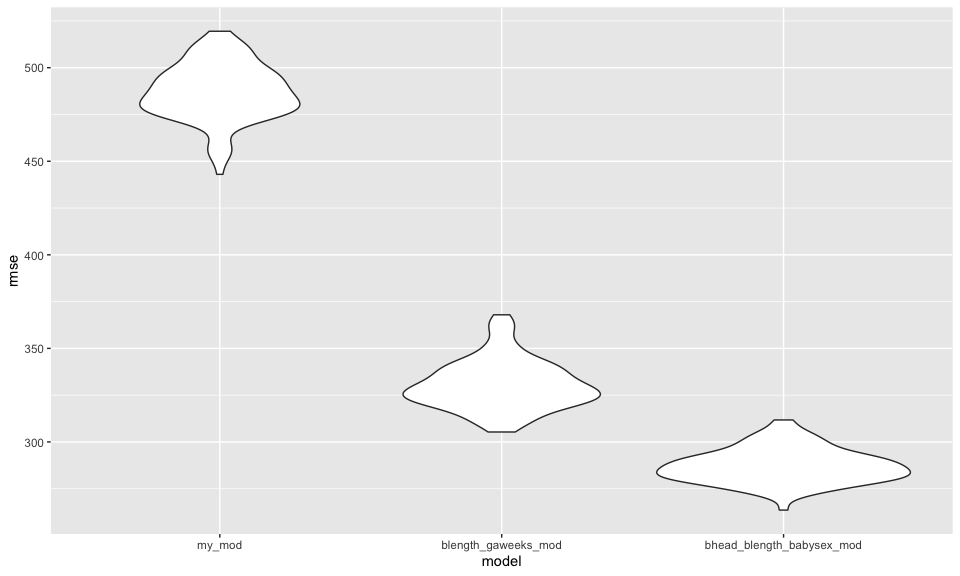
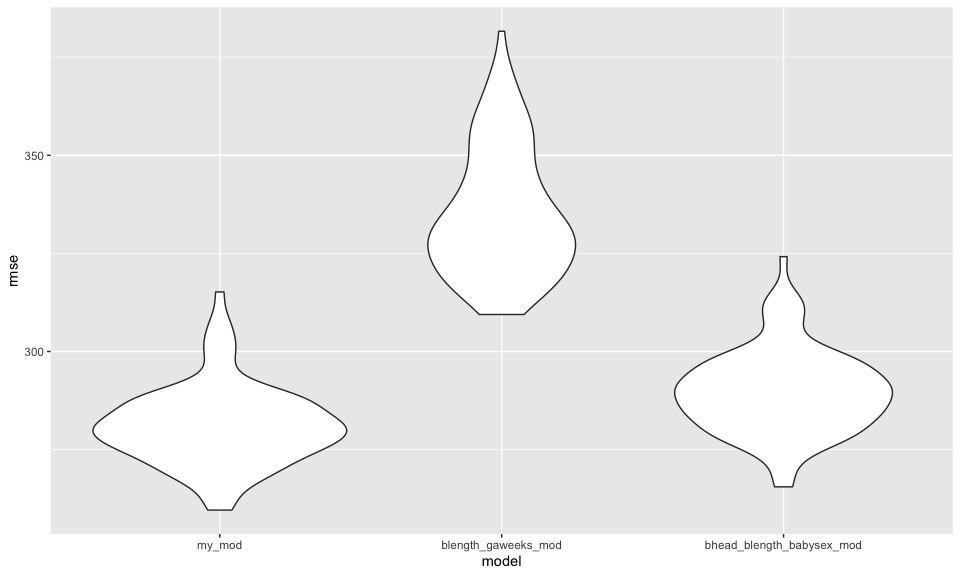
3. almost done.  next identify outliers and do last comparison.

diff --git a/p8105_hw6_td2749.md b/p8105_hw6_td2749.md
@@ -8,6 +8,7 @@ library(tidyverse)
 library(ggplot2)
 library(modelr)
 library(mgcv)
+library(patchwork)
 
 knitr::opts_chunk$set(
   fig.width = 10,
@@ -127,17 +128,7 @@ hom_all_glm =
          ci_lower = exp(`2.5 %`),
          ci_upper = exp(`97.5 %`)) %>% 
   select(city_state, term, OR, ci_lower, ci_upper)
-```
 
-    ## Warning: glm.fit: fitted probabilities numerically 0 or 1 occurred
-
-    ## Warning: glm.fit: fitted probabilities numerically 0 or 1 occurred
-
-    ## Warning: glm.fit: fitted probabilities numerically 0 or 1 occurred
-
-    ## Warning: glm.fit: fitted probabilities numerically 0 or 1 occurred
-
-``` r
 head(hom_all_glm)
 ```
 
@@ -172,9 +163,23 @@ male_female_odds_plot
 <img src="p8105_hw6_td2749_files/figure-gfm/all cities plot-1.png" width="90%" />
 
 **Comment**: Based on the fit model, compared to female homicide victim
-cases, male homicide victim cases are less likely to be solved in New
-York, NY. More likely in Albuqurque, NM. (ASK ABOUT LIKELIHOOD OF THE
-VICTIM BEING MALE/FEMALE IN THE FIRST PLACE).
+cases, amongst major US cities, male homicide victim cases have much
+fewer odds to be solved in New York, NY and considerably higher odds in
+Albuquerque, NM. In Atlanta, GA and Richmond, VA, male and female
+homicide victim cases are equally likely to be solved (equal odds \~1).
+In most of the major US cities included in this analysis, cases with
+male homicide victims are comparatively (in reference to cases with
+female homicide victims) less likely to be solved. Only in 4 cities here
+(Nashville TN, Fresno CA, Stockton CA, Albuquerque NM) here, cases with
+male homicide victims have higher odds of being solved.
+
+Note: In this context, it is important to consider that odds ratios are
+a relative and not an absolute measure of pointing out the differences.
+For instance, hypothetically, if it is the case that Albuquerque has
+very few female homicide victims and a low solving rate for female
+victims, the overall odds ratio would tend to be over-inflated, thereby
+casting doubt upon the validity of relative measures with extreme
+underlying contexts.
 
 # Problem 3
 
@@ -199,63 +204,109 @@ birthweight_data =
 
 - There are no missing values in this dataset (0).
 
-??? Describe your modeling process ???
+I have decided to use the following variables as main effects for my
+model:
 
-`mrace`: (1 = White, 2 = Black, 3 = Asian, 4 = Puerto Rican, 8 = Other)
-`momage`: Ranging from 12 - 44.
+- `mrace`: categorical; (1 = White, 2 = Black, 3 = Asian, 4 = Puerto
+  Rican, 8 = Other)
+- `bhead`: continuous; (baby’s head circumference at birth
+  (centimeters) - ranging from 20 to 42 cm.)
+- `blength`: continuous; (baby’s length at birth (centimeteres) -
+  rannging from 20 to 65 cm.)
+- `babysex`: categorical; (baby’s sex (male = 1, female = 2))
+- `smoken`: continuous; (average number of cigarettes smoked per day
+  during pregnancy - ranging from 0 to 60.)
+
+Following a hypothesized structure, I have included the size of the
+baby’s head, length at birth, and gender at birth to encompass
+potentially influential physiological aspects. From the mother’s
+perspective, I have decided to include race and smoking status as they
+are often cited to be instrumental in determining the baby’s physique at
+birth.
+
+Here are some exploratory graphs displaying basic underlying 1x1 trends:
 
 ``` r
-bwt_momage_mrace_scatter = 
+head_bwt = 
   birthweight_data %>% 
-    ggplot(aes(x = momage, y = bwt, color = mrace)) +
-    geom_point(aes(alpha = 0.3))
+  ggplot(aes(x = bhead, y = bwt)) +
+  geom_point(aes(alpha = 0.1, color = mrace))
 
-bwt_momage_mrace_scatter
+length_bwt = 
+  birthweight_data %>% 
+  ggplot(aes(x = blength, y = bwt)) +
+  geom_point(aes(alpha = 0.1, color = mrace))
+
+smoken_bwt = 
+  birthweight_data %>% 
+  ggplot(aes(x = smoken, y = bwt)) +
+  geom_point(aes(alpha = 0.1, color = mrace))  
+
+head_bwt + length_bwt + smoken_bwt
 ```
 
-<img src="p8105_hw6_td2749_files/figure-gfm/linear model suggestion-1.png" width="90%" />
+<img src="p8105_hw6_td2749_files/figure-gfm/exploratory graphs-1.png" width="90%" />
 
 ``` r
 my_model = 
   birthweight_data %>% 
-  lm(bwt ~ momage + mrace, data = .)
+  lm(bwt ~ mrace + bhead + blength + babysex + smoken, data = .)
 
 summary(my_model)
 ```
 
     ## 
     ## Call:
-    ## lm(formula = bwt ~ momage + mrace, data = .)
+    ## lm(formula = bwt ~ mrace + bhead + blength + babysex + smoken, 
+    ##     data = .)
     ## 
     ## Residuals:
     ##      Min       1Q   Median       3Q      Max 
-    ## -2422.32  -269.79    17.96   313.78  1561.94 
+    ## -1139.33  -186.27    -8.09   179.30  2504.97 
     ## 
     ## Coefficients:
-    ##             Estimate Std. Error t value Pr(>|t|)    
-    ## (Intercept) 3160.133     45.573  69.342  < 2e-16 ***
-    ## momage         4.939      2.056   2.403   0.0163 *  
-    ## mrace2      -302.983     16.375 -18.503  < 2e-16 ***
-    ## mrace3      -145.221     75.648  -1.920   0.0550 .  
-    ## mrace4      -202.724     33.258  -6.095 1.19e-09 ***
+    ##               Estimate Std. Error t value Pr(>|t|)    
+    ## (Intercept) -5650.1849    99.6340 -56.709  < 2e-16 ***
+    ## mrace2       -145.4771     9.3965 -15.482  < 2e-16 ***
+    ## mrace3       -115.0226    43.3026  -2.656  0.00793 ** 
+    ## mrace4       -144.8508    19.1264  -7.573 4.42e-14 ***
+    ## bhead         142.1479     3.4426  41.291  < 2e-16 ***
+    ## blength        81.4521     2.0254  40.215  < 2e-16 ***
+    ## babysex2       38.4275     8.6504   4.442 9.12e-06 ***
+    ## smoken         -4.0007     0.5997  -6.671 2.85e-11 ***
     ## ---
     ## Signif. codes:  0 '***' 0.001 '**' 0.01 '*' 0.05 '.' 0.1 ' ' 1
     ## 
-    ## Residual standard error: 488.5 on 4337 degrees of freedom
-    ## Multiple R-squared:  0.09095,    Adjusted R-squared:  0.09011 
-    ## F-statistic: 108.5 on 4 and 4337 DF,  p-value: < 2.2e-16
+    ## Residual standard error: 280.3 on 4334 degrees of freedom
+    ## Multiple R-squared:  0.701,  Adjusted R-squared:  0.7005 
+    ## F-statistic:  1451 on 7 and 4334 DF,  p-value: < 2.2e-16
+
+As revealed in the summary above, every predictor in this case seems to
+have a statistically significant effect on the response value (birth
+weight).
+
+The considerably high r^2 value: 0.7005 indicates that most of the
+variance in the response value can be explained by the variance in the
+predictors.
+
+*Plot: Residuals Vs. Fitted Values*
 
 ``` r
 birthweight_data %>% 
-  select(momage, mrace, bwt) %>% 
+  select(mrace, bwt, bhead, blength, babysex, smoken) %>% 
   modelr::add_residuals(., my_model) %>% 
   modelr::add_predictions(., my_model) %>% 
     ggplot(aes(x = pred, y = resid)) +
-    geom_point() +
+    geom_point(aes(alpha = 0.1)) +
     geom_hline(yintercept = 0)
 ```
 
 <img src="p8105_hw6_td2749_files/figure-gfm/residuals vs. fitted values plot-1.png" width="90%" />
+*Analysis*: The model seems to doing fairly well. Apart from some
+outliers, most values are equally spread out about the y = 0 line. Based
+on the x-axis scale, there seems to be a cluster indicating that most of
+the fitted values lie between 2000 and 4000 grams (2 kg - 4 kg) which
+makes sense in terms of baby birth weights.
 
 ``` r
 # One using length at birth and gestational age as predictors (main effects only)
@@ -337,7 +388,7 @@ cv_df =
 cv_df = 
   cv_df %>% 
   mutate(
-    my_mod = map(train, ~lm(bwt ~ momage + mrace, data = .x)),
+    my_mod = map(train, ~lm(bwt ~ mrace + bhead + blength + babysex + smoken, data = .x)),
     blength_gaweeks_mod = map(train, ~lm(bwt ~ blength + gaweeks, data = .x)),
     bhead_blength_babysex_mod = map(train, ~lm(bwt ~ bhead + blength + babysex + bhead*blength*babysex, data = .x))) %>% 
   mutate(
@@ -359,3 +410,6 @@ cv_df %>%
 ```
 
 <img src="p8105_hw6_td2749_files/figure-gfm/plotting-1.png" width="90%" />
+
+Based on the results of the cross validation, my model seems to be doing
+slightly better than the `bhead_blength_babysex_fit`. It has a low RMSE.
